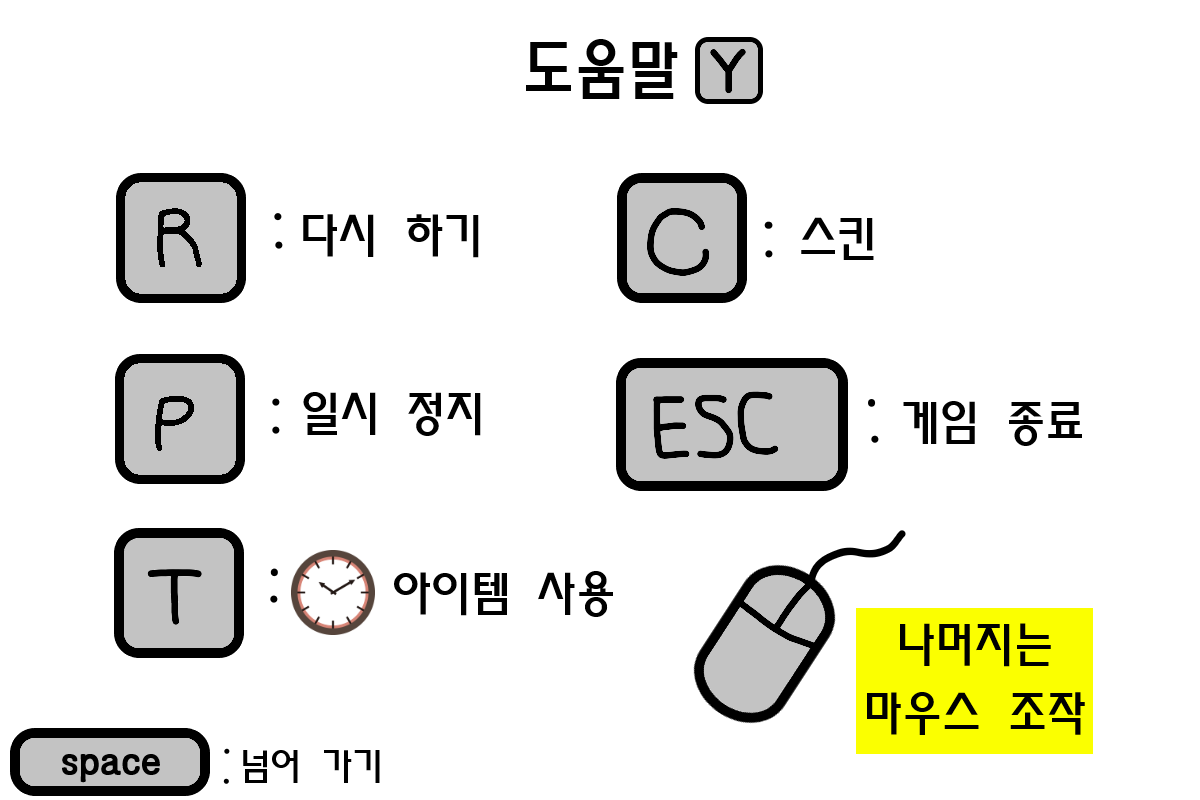
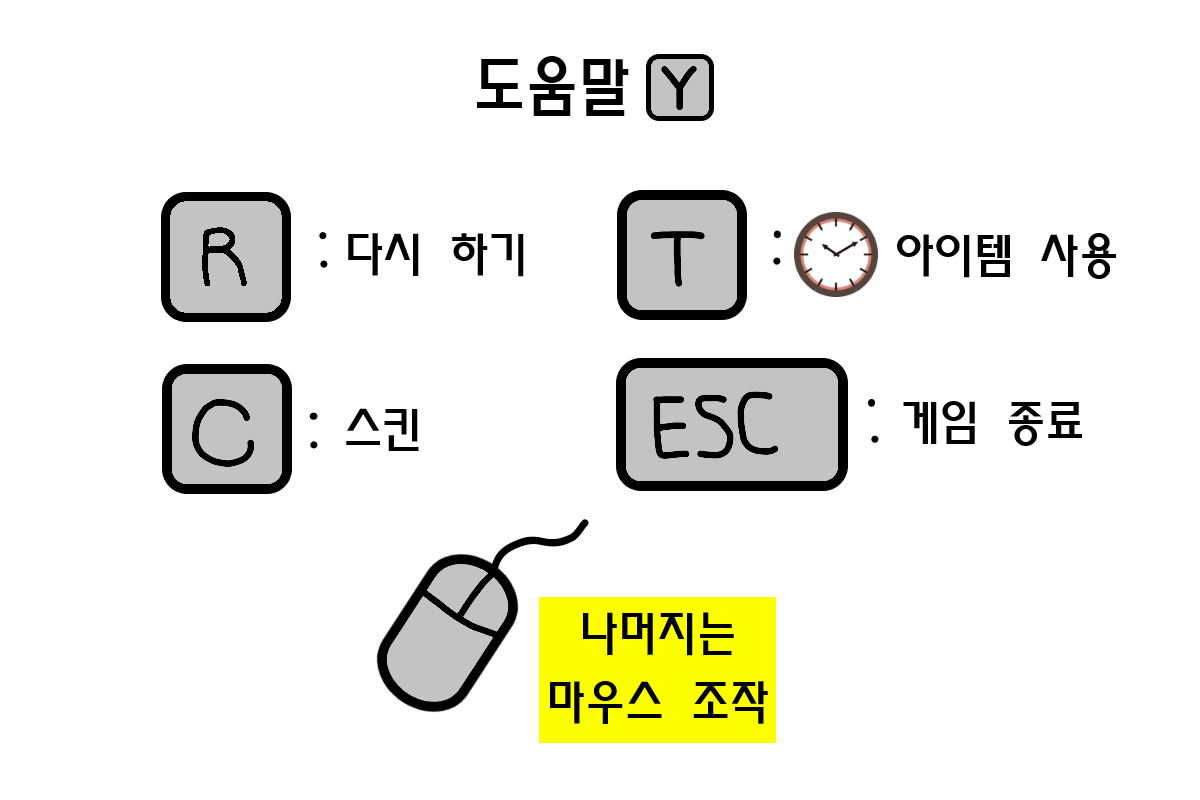
make retry

diff --git a/BasketBall_King/play_mode.py b/BasketBall_King/play_mode.py
@@ -2,6 +2,7 @@ from pico2d import *
 import game_framework
 import title_mode
 import tip_mode
+import random
 
 import game_world
 from ball import Ball
@@ -9,9 +10,9 @@ from target import Target
 from field import Field
 from ring import Ring
 from item import Item
-from settings import Setting
 from settings import Pause
 from cloud import Cloud
+from RETRY import Retry
 
 field_x, field_y = 1200, 800
 mouse_click = False
@@ -48,6 +49,15 @@ def handle_events():
         elif event.type == SDL_KEYDOWN and event.key == SDLK_y:
             game_framework.push_mode(tip_mode)
 
+        elif event.type == SDL_KEYDOWN and event.key == SDLK_r:
+            retry.not_drawing()
+            ball.__init__()
+            target.__init__()
+            ring.__init__()
+            field.__init__()
+            cloud.__init__()
+
+
 
 
 def init():
@@ -56,10 +66,10 @@ def init():
     global ball
     global ring
     global item
-    global setting
     global pause
     global cloud
     global score
+    global retry
 
     running = True
 
@@ -81,11 +91,12 @@ def init():
     pause = Pause()
     game_world.add_object(pause, 2)
 
-    setting = Setting()
-    game_world.add_object(setting, 2)
-
+    # cloud = [Cloud() for _ in range(3)]
     cloud = Cloud()
     game_world.add_object(cloud, 3)
+
+    retry = Retry()
+    game_world.add_object(retry, 3)
 
     score = 0
 
@@ -103,6 +114,7 @@ def update():
             ball.stop()
             ring.stop()
             target.stop()
+            retry.do_drawing()
 
         if game_world.goal(ball, ring):
             score += 1

diff --git a/BasketBall_King/cloud.py b/BasketBall_King/cloud.py
@@ -1,17 +1,24 @@
 from pico2d import *
+import random
 import game_framework
 
 class Cloud:
     def __init__(self):
-        self.image = load_image('cloud2.png')
+        self.image = load_image('cloud3.png')
         self.score = 0
+        self.x = random.randint(100, 1100)
+        self.y = random.randint(400, 700)
+        self.velocity = 1
 
     def update(self):
-        pass
-
+        if self.x > 950:
+            self.velocity = -1
+        elif self.x < 150:
+            self.velocity = 1
+        self.x += self.velocity * 100 * game_framework.frame_time
     def draw(self):
         if self.score >= 60:
-            self.image.draw(800, 750)
+            self.image.draw(self.x, self.y)
 
     def score_load(self, score):
         self.score = score

diff --git a/BasketBall_King/RETRY.py b/BasketBall_King/RETRY.py
@@ -1,0 +1,23 @@
+from pico2d import *
+import random
+import game_framework
+
+class Retry:
+    def __init__(self):
+        self.image = load_image('retry.png')
+        self.score = 0
+        self.x = 600
+        self.y = 400
+        self.TFdraw = False
+
+    def update(self):
+        pass
+    def draw(self):
+        if self.TFdraw:
+            self.image.draw(self.x, self.y)
+
+    def do_drawing(self):
+        self.TFdraw = True
+
+    def not_drawing(self):
+        self.TFdraw = False
